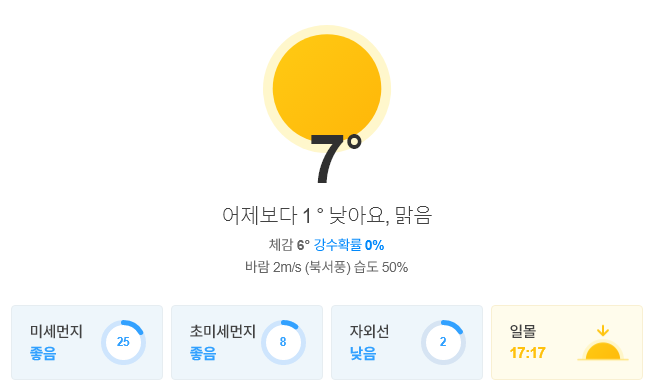
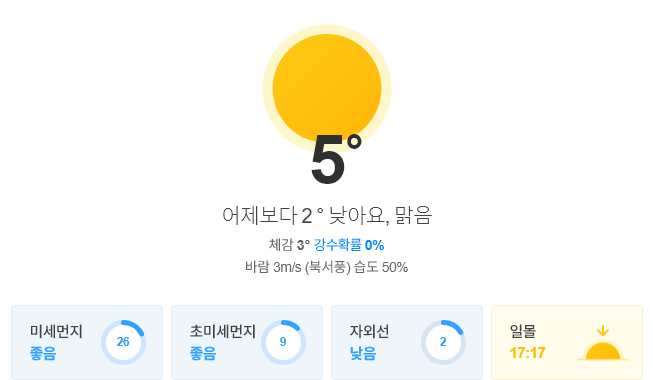
update result

Changed region(s): [[0.4594, 0.3474, 0.5513, 0.4921], [0.4594, 0.55, 0.49, 0.6079], [0.3982, 0.6947, 0.4288, 0.7237]]

diff --git a/README.md b/README.md
@@ -1,13 +1,13 @@
-##  2020-11-27 12:07:23   금요일 
-##### 날씨   -   어제보다 1 ° 낮아요, 맑음
+##  2020-11-27 16:02:39   금요일 
+##### 날씨   -   어제보다 3 ° 낮아요, 맑음
 <center><img src="../img/naver_weather_week.png"></center>
 ----
 ----
 ##### 지수
 <table border="1" bordercolor="blue" align = "center" >
 <tr align = "right" > <td>Item</td><td>Point</td><td>Diff</td><td>Rate</td><td>Buy</td><td>Sell</td><td>...</td>  </tr>
-<tr align = "right" > <td>KOSPI</td><td>2,623.64</td><td>-2.27</td><td><font size="3" color="blue" >-0.09%</font> </td><td><font size="3" color="black">2,000</font></td><td><font size="3" color="black">3,000</font></td><td>0</td>  </tr>
-<tr align = "right" > <td>KOSDAQ</td><td>882.91</td><td>8.38</td><td><font size="3" color="red" >0.96%</font> </td><td><font size="3" color="black">0</font></td><td><font size="3" color="black">0</font></td><td>0</td>  </tr>
+<tr align = "right" > <td>KOSPI</td><td>2,633.45</td><td>7.54</td><td><font size="3" color="red" >0.29%</font> </td><td><font size="3" color="black">2,000</font></td><td><font size="3" color="black">3,000</font></td><td>0</td>  </tr>
+<tr align = "right" > <td>KOSDAQ</td><td>885.56</td><td>11.03</td><td><font size="3" color="red" >1.26%</font> </td><td><font size="3" color="black">0</font></td><td><font size="3" color="black">0</font></td><td>0</td>  </tr>
 </table>
 ----
 ##### 세계
@@ -16,14 +16,14 @@
 <tr align = "right" > <td>DOW</td><td>29,872.47</td><td>-173.77</td><td><font size="3" color="blue" >-0.58%</font></td><td><font size="3" color="black">0</font></td><td><font size="3" color="black">0</font></td><td>0</td>  </tr>
 <tr align = "right" > <td>NASDAQ</td><td>12,094.4</td><td>57.61</td><td><font size="3" color="red" >0.48%</font></td><td><font size="3" color="black">0</font></td><td><font size="3" color="black">0</font></td><td>0</td>  </tr>
 <tr align = "right" > <td>S&P</td><td>3,629.65</td><td>-5.76</td><td><font size="3" color="blue" >-0.16%</font></td><td><font size="3" color="black">0</font></td><td><font size="3" color="black">0</font></td><td>0</td>  </tr>
-<tr align = "right" > <td>SHANHAI</td><td>3,384.19</td><td>14.45</td><td><font size="3" color="red" >0.43%</font></td><td><font size="3" color="black">0</font></td><td><font size="3" color="black">0</font></td><td>0</td>  </tr>
-<tr align = "right" > <td>INDIA</td><td>44,259.74</td><td>431.64</td><td><font size="3" color="red" >0.98%</font></td><td><font size="3" color="black">0</font></td><td><font size="3" color="black">0</font></td><td>0</td>  </tr>
+<tr align = "right" > <td>SHANHAI</td><td>3,401.38</td><td>31.65</td><td><font size="3" color="red" >0.94%</font></td><td><font size="3" color="black">0</font></td><td><font size="3" color="black">0</font></td><td>0</td>  </tr>
+<tr align = "right" > <td>INDIA</td><td>44,209.3</td><td>-50.44</td><td><font size="3" color="blue" >-0.11%</font></td><td><font size="3" color="black">0</font></td><td><font size="3" color="black">0</font></td><td>0</td>  </tr>
 </table>
 ----
 ##### 시장
 <table border="1" bordercolor="blue" align = "center" >
 <tr align = "right" > <td>Item</td><td>Price</td><td>Diff</td><td>Rate</td><td>Buy</td><td>Sell</td><td>...</td>  </tr>
-<tr align = "right" > <td>USD</td><td>1,104.0</td><td>-3.2</td><td><font size="3" color="blue">-0.29%</font></td><td><font size="3" color="orangered">1,110</font></td><td><font size="3" color="black">0</font></td><td>0</td>  </tr>
+<tr align = "right" > <td>USD</td><td>1,103.0</td><td>-4.0</td><td><font size="3" color="blue">-0.36%</font></td><td><font size="3" color="orangered">1,110</font></td><td><font size="3" color="black">0</font></td><td>0</td>  </tr>
 <tr align = "right" > <td>WTI</td><td>45.71</td><td>0.8</td><td><font size="3" color="red">1.78%</font></td><td><font size="3" color="black">29.0</font></td><td><font size="3" color="black">0</font></td><td>0</td>  </tr>
 <tr align = "right" > <td>GOLD</td><td>1,805.0</td><td>0.9</td><td><font size="3" color="red">0.04%</font></td><td><font size="3" color="black">0</font></td><td><font size="3" color="black">0</font></td><td>0</td>  </tr>
 </table>
@@ -32,22 +32,22 @@
 <table border="1" bordercolor="blue" align = "center" >
 <tr align = "right" > <td>Item</td><td>Price</td><td>Diff</td><td>Rate</td><td>Purchased</td><td>Sell</td><td>Buy</td>  </tr>
 <tr align = "right" > <td>한국 전력</td><td>21,900</td><td>-50</td><td><font size="3" color="blue">-0.23%</font></td><td>25,720</td><td><font size="3" color="black">30,000</font></td><td><font size="3" color="black">14,000</font></td>  </tr>
-<tr align = "right" > <td>삼성엔지니어.</td><td>14,100</td><td>-100</td><td><font size="3" color="blue">-0.7%</font></td><td>18,935</td><td><font size="3" color="black">20,000</font></td><td><font size="3" color="black">8,000</font></td>  </tr>
+<tr align = "right" > <td>삼성엔지니어.</td><td>14,050</td><td>-150</td><td><font size="3" color="blue">-1.06%</font></td><td>18,935</td><td><font size="3" color="black">20,000</font></td><td><font size="3" color="black">8,000</font></td>  </tr>
 <tr align = "right" > <td>CJ CGV</td><td>22,750</td><td>100</td><td><font size="3" color="red">0.44%</font></td><td>34,895</td><td><font size="3" color="black">36,000</font></td><td><font size="3" color="black">0</font></td>  </tr>
-<tr align = "right" > <td>아모레퍼시픽</td><td>184,500</td><td>-3,500</td><td><font size="3" color="blue">-1.86%</font></td><td>235,350</td><td><font size="3" color="black">240,000</font></td><td><font size="3" color="black">130,000</font></td>  </tr>
+<tr align = "right" > <td>아모레퍼시픽</td><td>183,500</td><td>-4,500</td><td><font size="3" color="blue">-2.39%</font></td><td>235,350</td><td><font size="3" color="black">240,000</font></td><td><font size="3" color="black">130,000</font></td>  </tr>
 <tr align = "right" > <td>한화</td><td>26,350</td><td>-100</td><td><font size="3" color="blue">-0.38%</font></td><td>25,550</td><td><font size="3" color="black">30,000</font></td><td><font size="3" color="black">20,000</font></td>  </tr>
-<tr align = "right" > <td>NAVER</td><td>285,000</td><td>-500</td><td><font size="3" color="blue">-0.18%</font></td><td>147,200</td><td><font size="3" color="black">400,000</font></td><td><font size="3" color="black">150,000</font></td>  </tr>
-<tr align = "right" > <td>LG 화학우</td><td>374,000</td><td>-500</td><td><font size="3" color="blue">-0.13%</font></td><td>202,490</td><td><font size="3" color="black">500,000</font></td><td><font size="3" color="black">200,000</font></td>  </tr>
+<tr align = "right" > <td>NAVER</td><td>284,500</td><td>-1,000</td><td><font size="3" color="blue">-0.35%</font></td><td>147,200</td><td><font size="3" color="black">400,000</font></td><td><font size="3" color="black">150,000</font></td>  </tr>
+<tr align = "right" > <td>LG 화학우</td><td>372,500</td><td>-2,000</td><td><font size="3" color="blue">-0.53%</font></td><td>202,490</td><td><font size="3" color="black">500,000</font></td><td><font size="3" color="black">200,000</font></td>  </tr>
 <tr align = "right" > <td>스튜디오드래.</td><td>80,300</td><td>-500</td><td><font size="3" color="blue">-0.62%</font></td><td>81,243</td><td><font size="3" color="black">100,000</font></td><td><font size="3" color="black">78,000</font></td>  </tr>
-<tr align = "right" > <td>글로벌럭셔리</td><td>14,285</td><td>-115</td><td><font size="3" color="blue">-0.8%</font></td><td>0</td><td><font size="3" color="black">15,000</font></td><td><font size="3" color="black">10,000</font></td>  </tr>
-<tr align = "right" > <td>QV미국IT</td><td>24,460</td><td>-40</td><td><font size="3" color="blue">-0.16%</font></td><td>0</td><td><font size="3" color="black">30,000</font></td><td><font size="3" color="black">20,000</font></td>  </tr>
-<tr align = "right" > <td>호텔 신라</td><td>80,700</td><td>-600</td><td><font size="3" color="blue">-0.74%</font></td><td>72,800</td><td><font size="3" color="black">100,000</font></td><td><font size="3" color="black">70,000</font></td>  </tr>
-<tr align = "right" > <td>S-Oil</td><td>69,900</td><td>-1,500</td><td><font size="3" color="blue">-2.1%</font></td><td>62,842</td><td><font size="3" color="black">100,000</font></td><td><font size="3" color="black">50,000</font></td>  </tr>
-<tr align = "right" > <td>LG전자</td><td>87,100</td><td>100</td><td><font size="3" color="red">0.11%</font></td><td>82,022</td><td><font size="3" color="black">100,000</font></td><td><font size="3" color="black">60,000</font></td>  </tr>
-<tr align = "right" > <td>지역난방공사</td><td>40,200</td><td>400</td><td><font size="3" color="red">1.01%</font></td><td>43,590</td><td><font size="3" color="black">60,000</font></td><td><font size="3" color="black">30,000</font></td>  </tr>
-<tr align = "right" > <td>KOEDX은행</td><td>6,310</td><td>-80</td><td><font size="3" color="blue">-1.25%</font></td><td>5,178</td><td><font size="3" color="black">6,000</font></td><td><font size="3" color="black">4,500</font></td>  </tr>
-<tr align = "right" > <td>삼성 전자우</td><td>61,700</td><td>-200</td><td><font size="3" color="blue">-0.32%</font></td><td>48,250</td><td><font size="3" color="black">56,000</font></td><td><font size="3" color="black">45,000</font></td>  </tr>
-<tr align = "right" > <td>한화에어로스.</td><td>26,950</td><td>-300</td><td><font size="3" color="blue">-1.1%</font></td><td>25,700</td><td><font size="3" color="black">30,000</font></td><td><font size="3" color="black">24,000</font></td>  </tr>
-<tr align = "right" > <td>한국금융지주</td><td>76,600</td><td>-1,800</td><td><font size="3" color="blue">-2.3%</font></td><td>0</td><td><font size="3" color="black">82,000</font></td><td><font size="3" color="black">60,000</font></td>  </tr>
+<tr align = "right" > <td>글로벌럭셔리</td><td>14,375</td><td>-25</td><td><font size="3" color="blue">-0.17%</font></td><td>0</td><td><font size="3" color="black">15,000</font></td><td><font size="3" color="black">10,000</font></td>  </tr>
+<tr align = "right" > <td>QV미국IT</td><td>24,470</td><td>-30</td><td><font size="3" color="blue">-0.12%</font></td><td>0</td><td><font size="3" color="black">30,000</font></td><td><font size="3" color="black">20,000</font></td>  </tr>
+<tr align = "right" > <td>호텔 신라</td><td>81,000</td><td>-300</td><td><font size="3" color="blue">-0.37%</font></td><td>72,800</td><td><font size="3" color="black">100,000</font></td><td><font size="3" color="black">70,000</font></td>  </tr>
+<tr align = "right" > <td>S-Oil</td><td>70,500</td><td>-900</td><td><font size="3" color="blue">-1.26%</font></td><td>62,842</td><td><font size="3" color="black">100,000</font></td><td><font size="3" color="black">50,000</font></td>  </tr>
+<tr align = "right" > <td>LG전자</td><td>87,800</td><td>800</td><td><font size="3" color="red">0.92%</font></td><td>82,022</td><td><font size="3" color="black">100,000</font></td><td><font size="3" color="black">60,000</font></td>  </tr>
+<tr align = "right" > <td>지역난방공사</td><td>40,050</td><td>250</td><td><font size="3" color="red">0.63%</font></td><td>43,590</td><td><font size="3" color="black">60,000</font></td><td><font size="3" color="black">30,000</font></td>  </tr>
+<tr align = "right" > <td>KOEDX은행</td><td>6,340</td><td>-50</td><td><font size="3" color="blue">-0.78%</font></td><td>5,178</td><td><font size="3" color="black">6,000</font></td><td><font size="3" color="black">4,500</font></td>  </tr>
+<tr align = "right" > <td>삼성 전자우</td><td>61,800</td><td>-100</td><td><font size="3" color="blue">-0.16%</font></td><td>48,250</td><td><font size="3" color="black">56,000</font></td><td><font size="3" color="black">45,000</font></td>  </tr>
+<tr align = "right" > <td>한화에어로스.</td><td>26,900</td><td>-350</td><td><font size="3" color="blue">-1.28%</font></td><td>25,700</td><td><font size="3" color="black">30,000</font></td><td><font size="3" color="black">24,000</font></td>  </tr>
+<tr align = "right" > <td>한국금융지주</td><td>77,100</td><td>-1,300</td><td><font size="3" color="blue">-1.66%</font></td><td>0</td><td><font size="3" color="black">82,000</font></td><td><font size="3" color="black">60,000</font></td>  </tr>
 </table>
 ----
